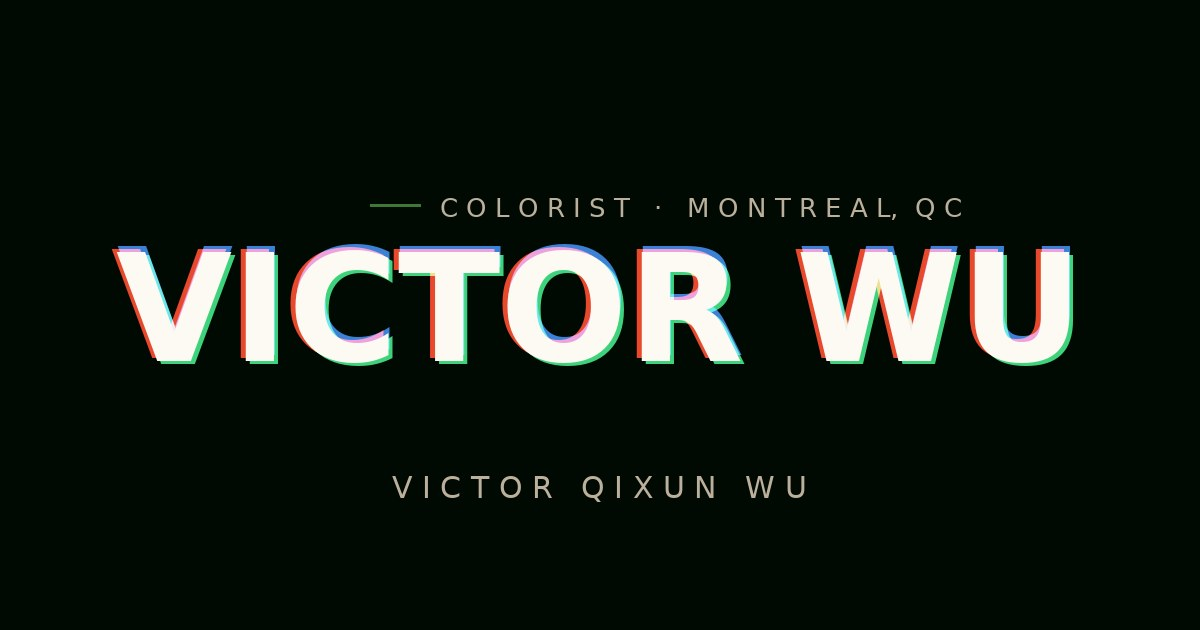
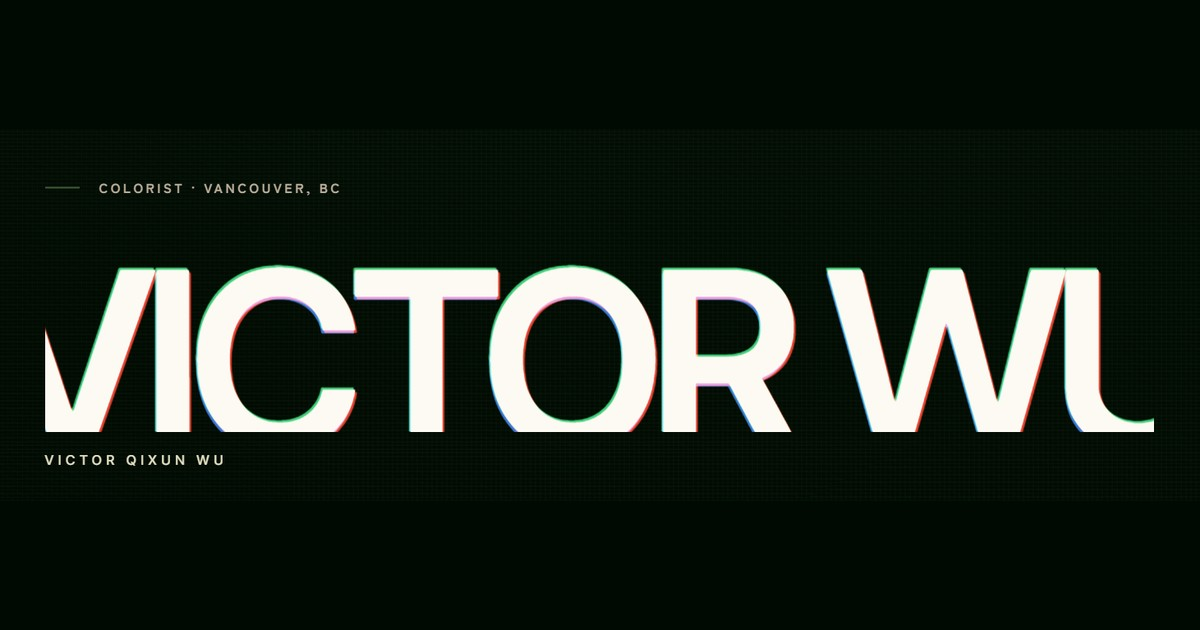
location updated

diff --git a/index.html b/index.html
@@ -18,7 +18,7 @@
   <!-- End Cloudflare Web Analytics -->
 
   <title>Victor Qixun Wu — Colorist</title>
-  <meta name="description" content="Colorist and editor based in Montreal. Seven years of post-production across narrative film, documentary and branded campaigns — DaVinci Resolve, HDR and DCP delivery." />
+  <meta name="description" content="Colorist and editor based in Vancouver. Seven years of post-production across narrative film, documentary and branded campaigns — DaVinci Resolve, HDR and DCP delivery." />
   <link rel="canonical" href="https://www.victorqixunwu.com/" />
   <meta name="theme-color" content="#000a02" />
 
@@ -26,12 +26,12 @@
   <meta property="og:type" content="website" />
   <meta property="og:site_name" content="Victor Qixun Wu" />
   <meta property="og:title" content="Victor Qixun Wu — Colorist" />
-  <meta property="og:description" content="Colorist and editor based in Montreal. Narrative film, documentary and branded campaigns." />
+  <meta property="og:description" content="Colorist and editor based in Vancouver. Narrative film, documentary and branded campaigns." />
   <meta property="og:url" content="https://www.victorqixunwu.com/" />
   <meta property="og:image" content="https://www.victorqixunwu.com/assets/og.jpg" />
   <meta name="twitter:card" content="summary_large_image" />
   <meta name="twitter:title" content="Victor Qixun Wu — Colorist" />
-  <meta name="twitter:description" content="Colorist and editor based in Montreal." />
+  <meta name="twitter:description" content="Colorist and editor based in Vancouver." />
   <meta name="twitter:image" content="https://www.victorqixunwu.com/assets/og.jpg" />
 
   <!-- Favicon: the VW. mark, drawn inline so there is no extra request -->
@@ -60,7 +60,7 @@
   <!-- HERO -->
   <section id="hero">
     <div class="hero-inner">
-      <p class="hero-label" id="hero-label">Colorist · Montreal, QC</p>
+      <p class="hero-label" id="hero-label">Colorist · Vancouver, BC</p>
       <h1 class="hero-title" aria-label="Victor Qixun Wu">
         <span class="chroma" aria-hidden="true">
           <span class="ch r"    id="hero-ch-r">victor wu</span>
@@ -172,7 +172,7 @@
               <span class="link-icon">
                 <svg viewBox="0 0 24 24" fill="none" stroke="currentColor" stroke-width="1.5" stroke-linecap="round" stroke-linejoin="round"><path d="M12 21s-7-5.5-7-11a7 7 0 0 1 14 0c0 5.5-7 11-7 11z"/><circle cx="12" cy="10" r="2.5"/></svg>
               </span>
-              <span class="contact-text">Montreal, QC, Canada</span>
+              <span class="contact-text">Vancouver, BC, Canada</span>
             </div>
           </div>
         </div>

diff --git a/editor.html b/editor.html
@@ -438,7 +438,7 @@ var DATA_VERSION = '2026-07-27-cv6';
 var DEFAULTS = {
   meta: { name: "Victor Qixun Wu", siteTitle: "Victor Qixun Wu — Colorist & Editor" },
   hero: {
-    label: "Colorist · Montreal, QC",
+    label: "Colorist · Vancouver, BC",
     line1: "victor wu", line2: "Victor Qixun Wu",
     reelUrl: "", reelLabel: "Watch Showreel",
     description: "Imaging and color specialist with 7+ years of post-production experience across color grading, digital imaging pipelines, and on-set media workflows — 60+ delivered projects spanning narrative film, VFX-adjacent productions, and branded campaigns."
@@ -491,7 +491,7 @@ var DEFAULTS = {
     website: "www.victorqixunwu.com",
     instagram: "victorqixunwu",
     facebook: "victorqixunwu",
-    location: "Montreal, QC, Canada",
+    location: "Vancouver, BC, Canada",
     message: "Whether it's a new project, a collaboration, or just a conversation about color — my inbox is always open."
   },
   footer: {

diff --git a/README.md b/README.md
@@ -1,6 +1,6 @@
 # Victor Qixun Wu — Portfolio
 
-Personal portfolio site for a colorist and editor based in Montreal, QC.
+Personal portfolio site for a colorist and editor based in Vancouver, BC.
 Static site, no build step, no dependencies — deployed on GitHub Pages at
 **[www.victorqixunwu.com](https://www.victorqixunwu.com)**.
 
